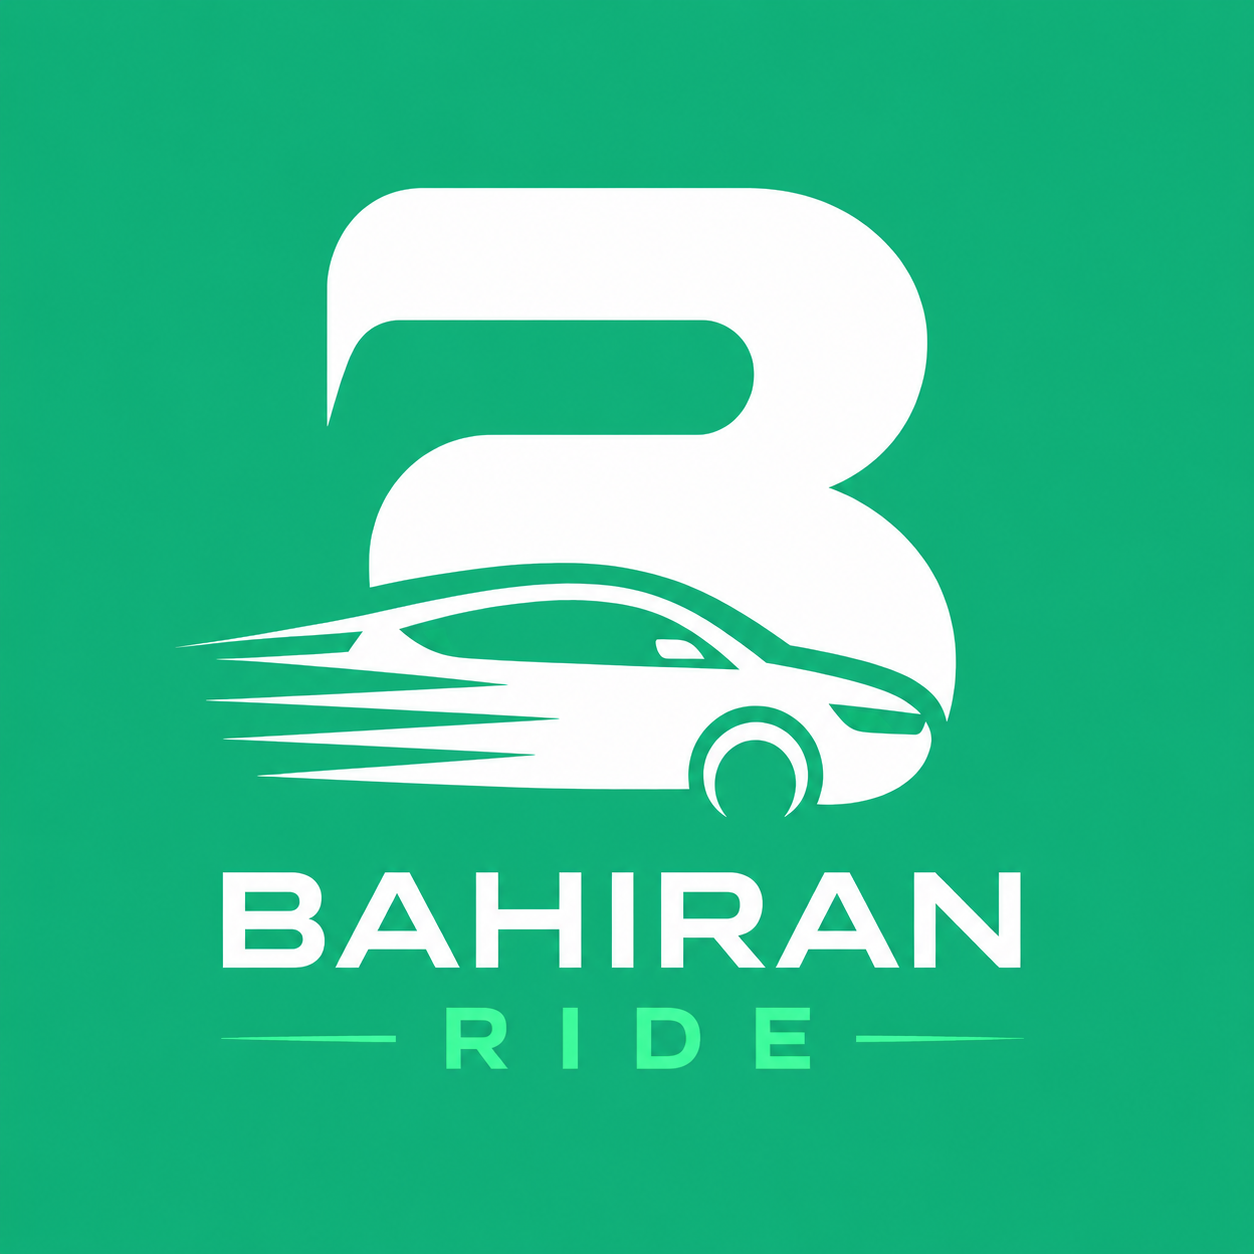
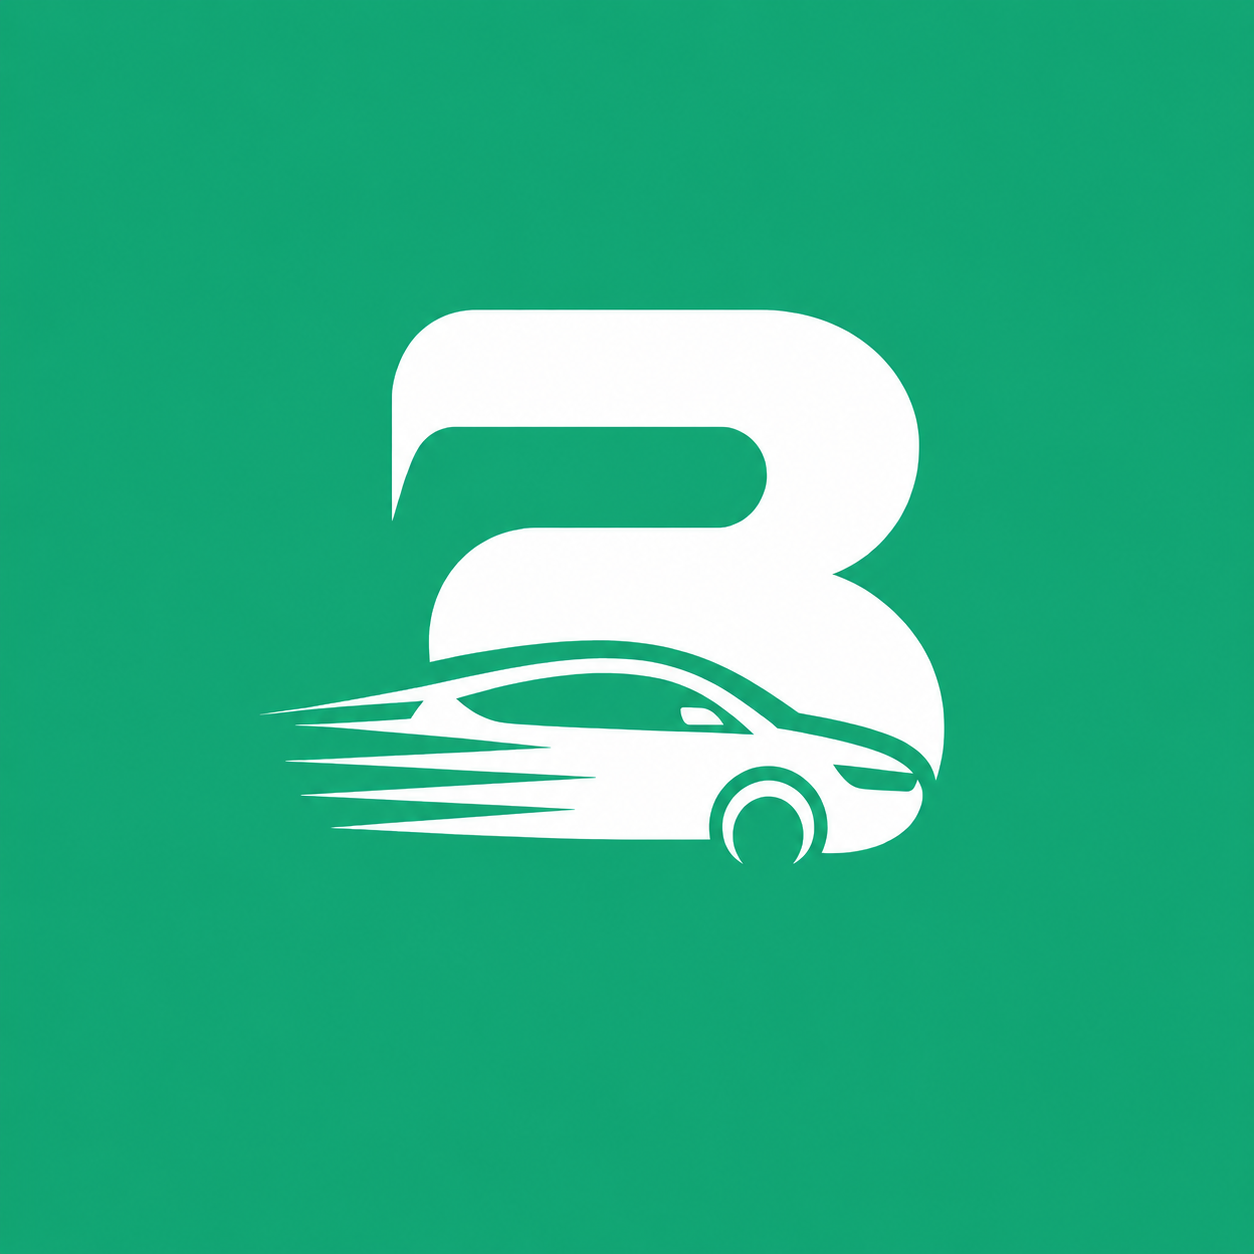
Update the Rider App

diff --git a/src/screens/home/ConfirmRideScreen.js b/src/screens/home/ConfirmRideScreen.js
@@ -27,6 +27,15 @@ import { parseTripPollResponse } from '../../utils/tripLifecycle';
 const ADDIS_ABABA_COORDS = { latitude: 9.0192, longitude: 38.7525 };
 const formatDistance = (km) => (km < 1 ? `${Math.round(km * 1000)} m` : `${km.toFixed(1)} km`);
 
+function resolveVehicleCategoryRequestValue(category) {
+  return (
+    category?.slug ||
+    category?.vehicle_category ||
+    category?.name ||
+    ''
+  );
+}
+
 /**
  * Maps any vehicle category display name → valid backend enum value.
  * Backend only accepts: economy | comfort | business
@@ -45,6 +54,10 @@ export default function ConfirmRideScreen({ navigation, route }) {
 
   const displayCoords = userCoords ?? ADDIS_ABABA_COORDS;
   const selectedCategory = categories.find((c) => c.id === selectedCategoryId) || null;
+  const requestedVehicleCategory = useMemo(
+    () => resolveVehicleCategoryRequestValue(selectedCategory),
+    [selectedCategory]
+  );
 
   const distKm = routeInfo?.distance_km
     || (userCoords && destination
@@ -94,7 +107,7 @@ export default function ConfirmRideScreen({ navigation, route }) {
   }, [userCoords?.latitude, destination?.lat, handleRecenter]);
 
   const handleConfirm = async () => {
-    if (!destination || !selectedCategory) return;
+    if (!destination || !selectedCategory || !requestedVehicleCategory) return;
     Haptics.impactAsync(Haptics.ImpactFeedbackStyle.Medium);
     setLoading(true);
 
@@ -128,7 +141,7 @@ export default function ConfirmRideScreen({ navigation, route }) {
       pickup_lng: displayCoords.longitude,
       dropoff_lat: destination.lat,
       dropoff_lng: destination.lng,
-      vehicle_category: selectedCategory.name, // Use raw name from DB
+      vehicle_category: requestedVehicleCategory,
       payment_method: 'cash',
       estimated_fare_etb: Number(fare) || 0,
       distance_km: distKm,
@@ -156,7 +169,7 @@ export default function ConfirmRideScreen({ navigation, route }) {
           dropoff_lat: destination.lat,
           dropoff_lng: destination.lng,
           dropoff_address: destination.name || destination.address || 'Destination',
-          vehicle_category: selectedCategory.name, // Use raw name from DB
+          vehicle_category: requestedVehicleCategory,
           payment_method: 'cash',
           distance_km: distKm,
           duration_min: durMin,

diff --git a/src/screens/home/HomeScreen.js b/src/screens/home/HomeScreen.js
@@ -183,8 +183,6 @@ export default function HomeScreen({ navigation }) {
   const categoriesLoaded = useRideStore((s) => s.categoriesLoaded);
   const fareEstimateLoading = useRideStore((s) => s.fareEstimateLoading);
   const selectedCategoryId = useRideStore((s) => s.selectedCategoryId);
-  const tripStatus = useRideStore((s) => s.tripStatus);
-  const tripId = useRideStore((s) => s.tripId);
   const selectedCategory = categories.find((c) => c.id === selectedCategoryId) || null;
   const categorySelectionReady =
     !categoriesLoading &&
@@ -439,12 +437,6 @@ export default function HomeScreen({ navigation }) {
       }
     }
   }, [categories, nearbyDriversRes]);
-
-  useEffect(() => {
-    if (!tripId) return;
-    if (!['searching', 'matched', 'driver_arrived', 'in_progress'].includes(tripStatus)) return;
-    navigation.replace('ActiveTripResume');
-  }, [navigation, tripId, tripStatus]);
 
   // Socket live updates for active drivers on Home map.
   useEffect(() => {
@@ -766,7 +758,7 @@ export default function HomeScreen({ navigation }) {
     outputRange: ['0deg', '360deg'],
   });
 
-  // Auto-sync Rider current location coordinates & address reverse geocode every 4 seconds
+  // Auto-sync rider current location coordinates and address every 10 seconds.
   useEffect(() => {
     const interval = setInterval(() => {
       // Trigger the spin animation for visual feedback (1.2s spin)
@@ -781,7 +773,7 @@ export default function HomeScreen({ navigation }) {
       if (typeof refreshLocation === 'function') {
         refreshLocation();
       }
-    }, 4000);
+    }, 10000);
 
     return () => clearInterval(interval);
   }, [refreshLocation, refreshSpinAnim]);

diff --git a/src/components/map/DriverMarker.js b/src/components/map/DriverMarker.js
@@ -121,6 +121,7 @@ function NameBubble({ name, carText }) {
 export default React.memo(function DriverMarker({ driver, onPress, routeCoords }) {
   const [rippleTrigger, setRippleTrigger] = useState(0);
   const [imageLoaded,   setImageLoaded]   = useState(false);
+  const [imageFailed,   setImageFailed]   = useState(false);
   // Android: heading state drives the native `rotation` prop on the car marker.
   const [heading, setHeading] = useState(driver.heading || 0);
 
@@ -155,6 +156,7 @@ export default React.memo(function DriverMarker({ driver, onPress, routeCoords }
 
   useEffect(() => {
     setImageLoaded(false);
+    setImageFailed(false);
     if (!carIconUrl) return;
     Image.prefetch(carIconUrl).catch(() => {});
   }, [carIconUrl]);
@@ -217,7 +219,7 @@ export default React.memo(function DriverMarker({ driver, onPress, routeCoords }
   const name    = firstName(driver?.fullName || driver?.name || '');
   const carText = String(driver?.carLabel || '').trim();
   const renderCarVisual = () => {
-    if (carIconUrl) {
+    if (carIconUrl && !imageFailed) {
       return (
         <Image
           source={{ uri: carIconUrl }}
@@ -225,6 +227,10 @@ export default React.memo(function DriverMarker({ driver, onPress, routeCoords }
           fadeDuration={0}
           style={styles.carImage}
           onLoad={() => setImageLoaded(true)}
+          onError={() => {
+            setImageFailed(true);
+            setImageLoaded(true);
+          }}
         />
       );
     }
@@ -260,7 +266,7 @@ export default React.memo(function DriverMarker({ driver, onPress, routeCoords }
           rotation={heading - 90}
           flat
           anchor={{ x: 0.5, y: 0.5 }}
-          tracksViewChanges={!imageLoaded}
+          tracksViewChanges={!!carIconUrl && !imageFailed ? true : !imageLoaded}
           zIndex={101}
           onPress={onPress}
         >

diff --git a/src/utils/avatarUrl.js b/src/utils/avatarUrl.js
@@ -8,11 +8,9 @@ function getImageOrigin() {
   const apiOrigin = getApiOrigin();
   if (!apiOrigin) return '';
   try {
-    const parsed = new URL(apiOrigin);
-    parsed.protocol = 'http:';
-    return parsed.origin;
+    return new URL(apiOrigin).origin;
   } catch {
-    return apiOrigin.replace(/^https:/i, 'http:');
+    return apiOrigin;
   }
 }
 
@@ -28,7 +26,7 @@ export function normalizeAvatarUrl(rawUrl) {
 
   try {
     if (url.startsWith('//')) {
-      const protocol = imageOrigin ? new URL(imageOrigin).protocol : 'http:';
+      const protocol = imageOrigin ? new URL(imageOrigin).protocol : 'https:';
       return `${protocol}${url}`;
     }
 

diff --git a/app.config.js b/app.config.js
@@ -14,7 +14,7 @@ export default {
       resizeMode: 'contain',
       backgroundColor: '#00674F',
       android12: {
-        image: './assets/adaptive-icon.png',
+        image: './assets/icon.png',
         backgroundColor: '#00674F',
       },
     },
@@ -32,7 +32,7 @@ export default {
     },
     android: {
       adaptiveIcon: {
-        foregroundImage: './assets/adaptive-icon.png',
+        foregroundImage: './assets/icon.png',
         backgroundColor: '#00674F',
       },
       package: 'com.bahirdar.ride',